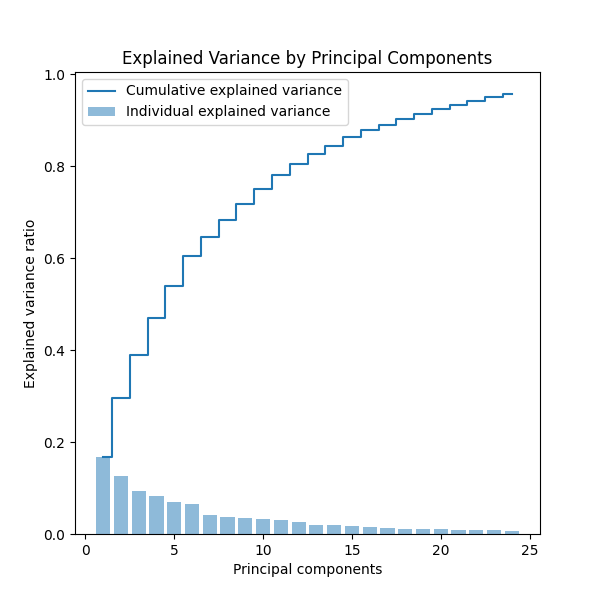
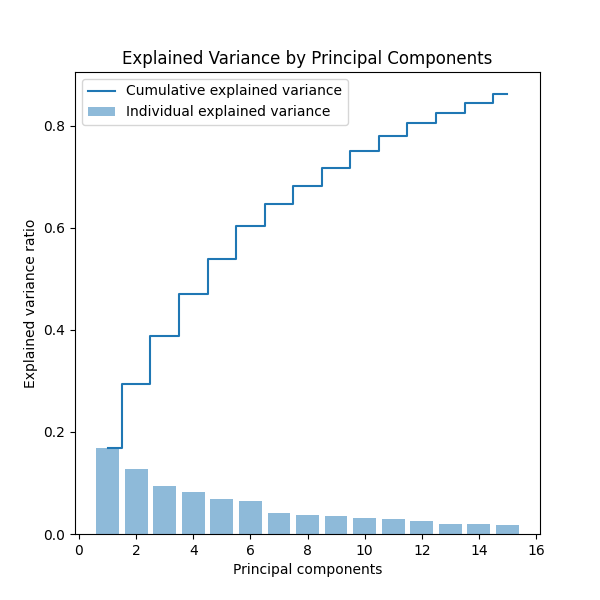
commit

diff --git a/train_mce_irl pca.py b/train_mce_irl pca.py
@@ -51,7 +51,7 @@ scaler = StandardScaler()
 scaled_data = scaler.fit_transform(observations)
 
 # Apply PCA
-desired_dimension =24
+desired_dimension =15
 pca = PCA(n_components=desired_dimension)  # Set the number of components to reduce to
 pca_result = pca.fit_transform(scaled_data)
 # Convert the result back to a DataFrame for easier handling
@@ -112,33 +112,28 @@ env = gym.make('StickInsect-v0-discrete',
                exclude_current_positions_from_observation=exclude_xy,
                max_episode_steps=3000)
 env = DummyVecEnv([lambda: RolloutInfoWrapper(env)])
-# env.horizon = 3000
-# env.state_dim = state_dim
-# env.action_dim = action_dim
+env.horizon = 3000
+env.state_dim = state_dim
+env.action_dim = action_dim
 env.state_space = gym.spaces.Discrete(n_bins ** state_dim)
 env.action_space = gym.spaces.Discrete(n_bins)
+env.observation_matrix = np.eye(n_bins ** state_dim)
 
 # Initialize reward network
 reward_net = BasicRewardNet(
     observation_space=env.observation_space,
     action_space=env.action_space,
     use_state=True,
-    use_action=True,
+    use_action=False,
     use_next_state=False,
     use_done=False,
 )
 
 # Initialize MCE-IRL algorithm
 mce_irl = MCEIRL(
+    demonstrations=state_occupancy_flat,  # Provide state occupancy as demonstrations
     env=env,
     reward_net=reward_net,
-    demonstrations=types.Transitions(
-        obs=discretized_states,
-        acts=actions,
-        next_obs=None,  # Not used in this example
-        dones=None,  # Not used in this example
-        infos=None,  # Not used in this example
-    ),
     rng=rng,
 )
 
